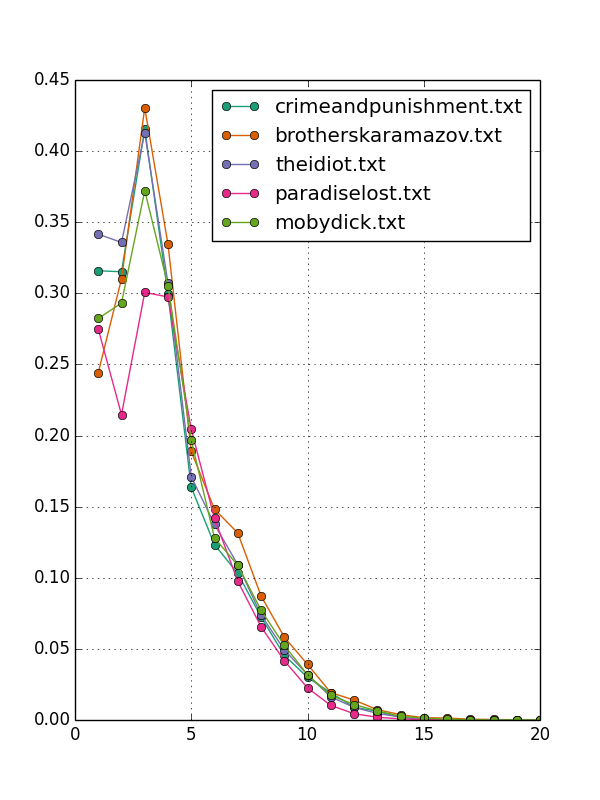
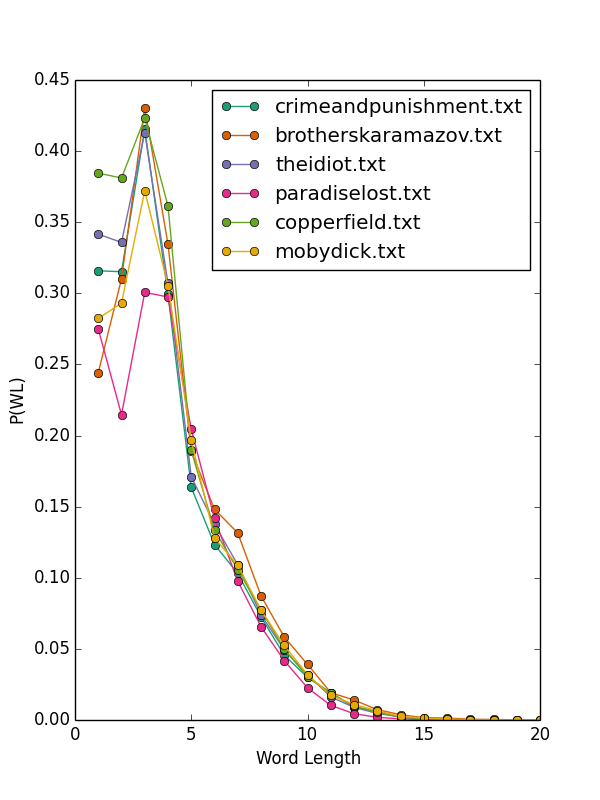
moving stuff around.

diff --git a/wordcount/kde_wordlength.py b/wordcount/kde_wordlength.py
@@ -12,6 +12,7 @@ filenames = ['crimeandpunishment.txt',
              'brotherskaramazov.txt',
              'theidiot.txt',
              'paradiselost.txt',
+             'copperfield.txt',
              'mobydick.txt']
 
 
@@ -36,14 +37,14 @@ for ii,filename in enumerate(filenames):
 
         tok = PunktWordTokenizer().tokenize(bk)
 
-        ln = len(tok)
-        print "Length of "+filename+":",ln
+        num_wds = len(tok)
+        print "Length of "+filename+":",num_wds
 
-        nw = len(set(tok))
-        print "Num Words "+filename+":",nw
+        num_uniq_wds = len(set(tok))
+        print "Num Words "+filename+":",num_uniq_wds
 
-        richness = nw/ln
-        print "Lexical Richness %s: %0.4f"%(filename,richness)
+        richness = num_uniq_wds/num_wds
+        print "Lexical Richness (# uniq words/# words) %s: %0.4f"%(filename,richness)
 
         print "\n"+"-"*40+"\n\n"
 
@@ -55,6 +56,8 @@ for ii,filename in enumerate(filenames):
         ax.plot(xx,kernel(xx),'o-',color=colors[ii],label=filename)
         ax.grid()
         ax.set_xlim([0,20])
+        ax.set_xlabel('Word Length')
+        ax.set_ylabel('P(WL)')
 
         print "\n"*2
 
